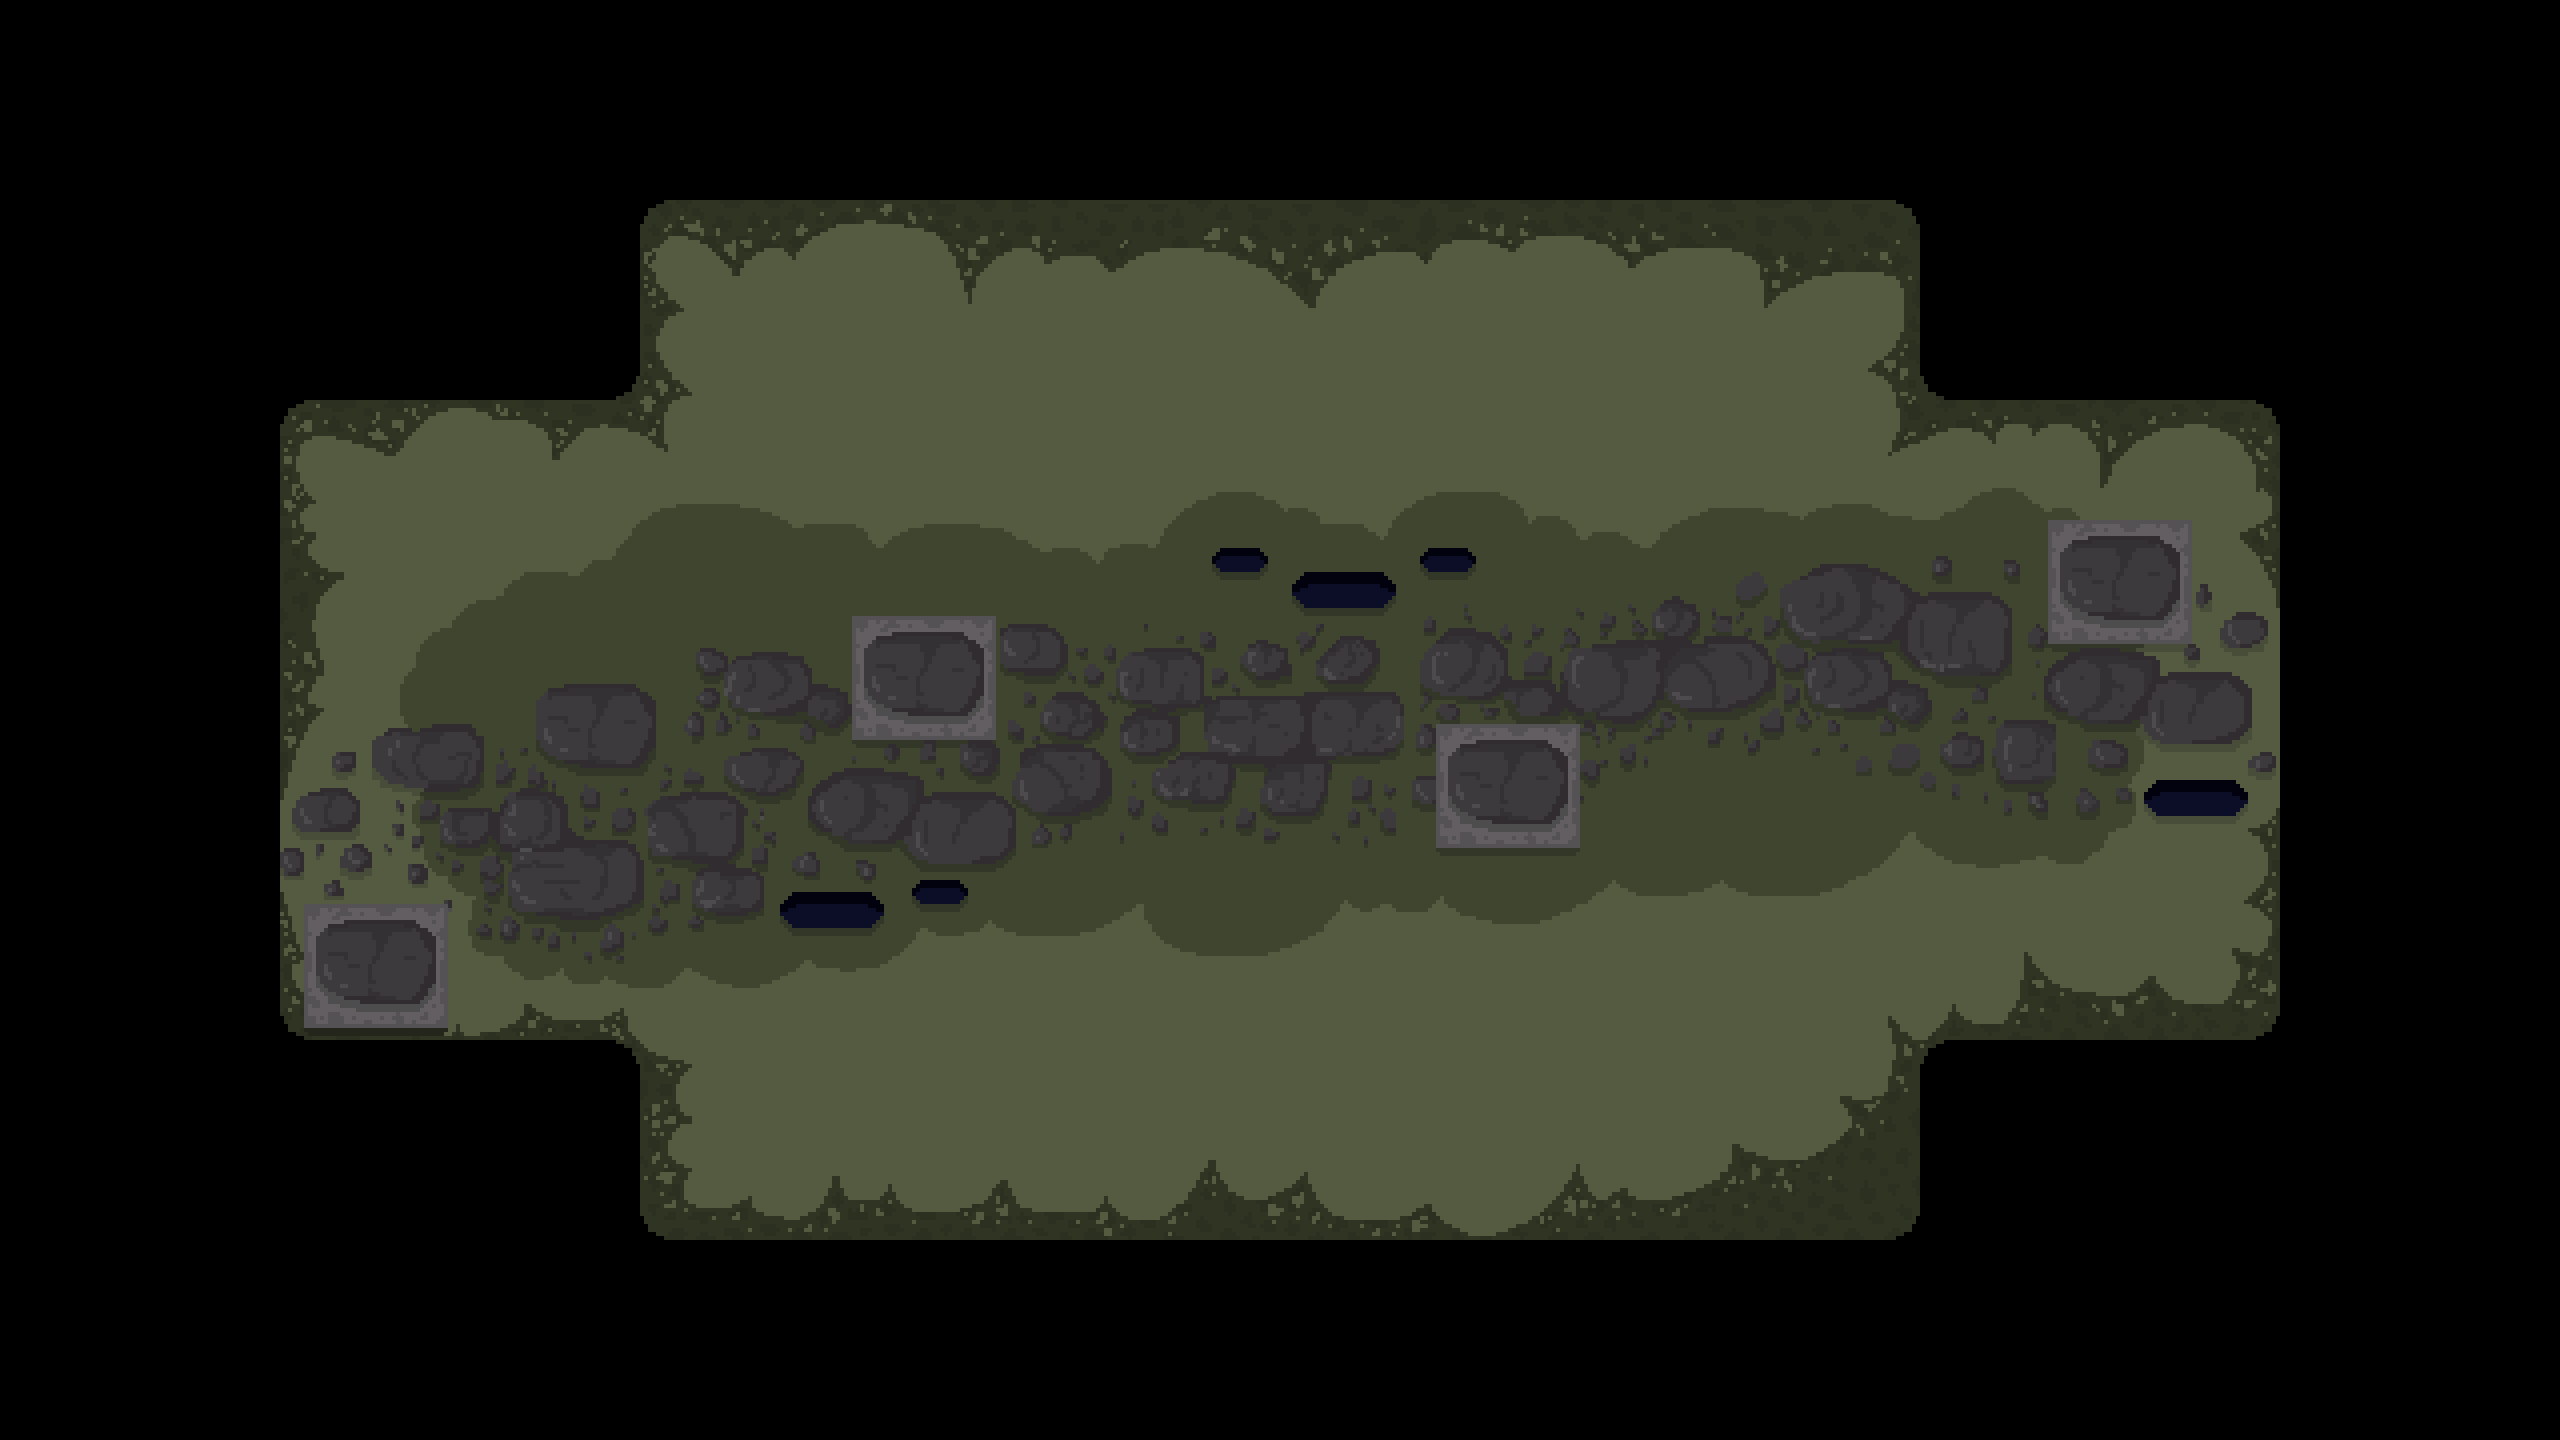
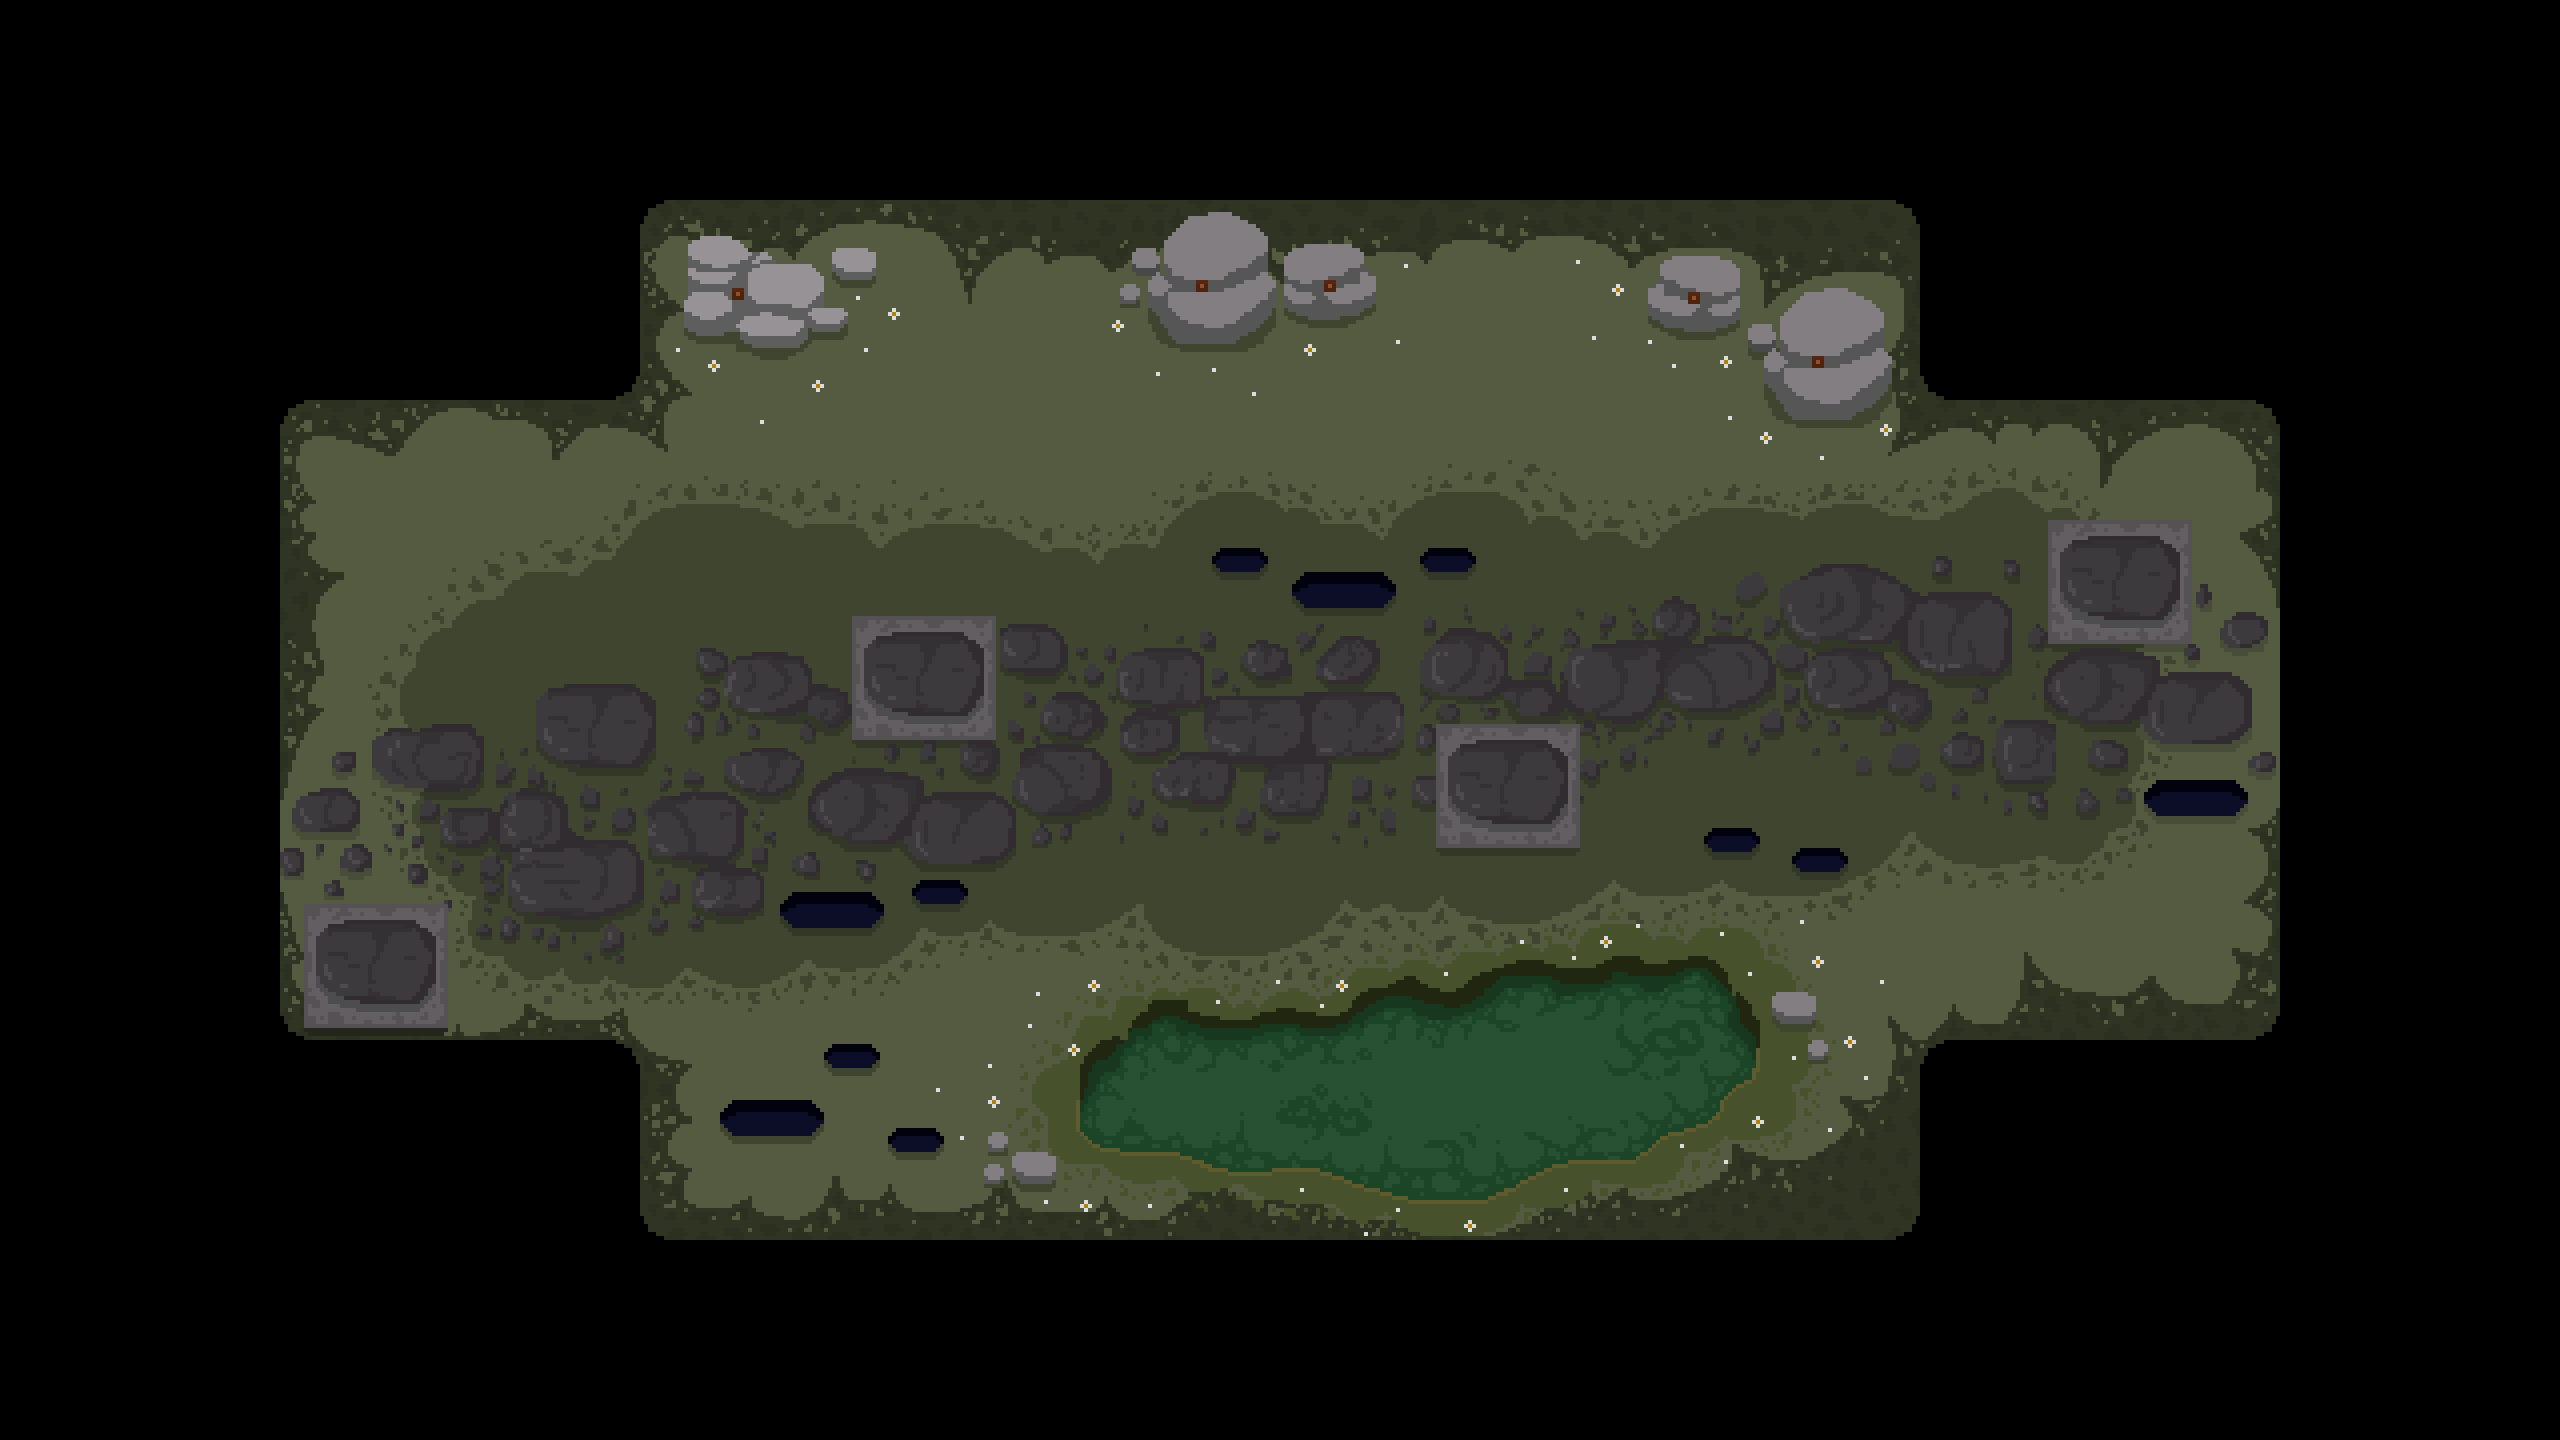
added new background
also change sprite spawn position

diff --git a/An Phiast Game/game/script.js b/An Phiast Game/game/script.js
@@ -740,6 +740,11 @@ function loadLevel(levelIndex) {
     player.x = 928;
     player.y = 605;
     }
+    else if (levelIndex === 7) {
+    // level 8
+    player.x = 291;
+    player.y = 565;
+    }
     else {
     //first three levels so far
     player.x = 291;
